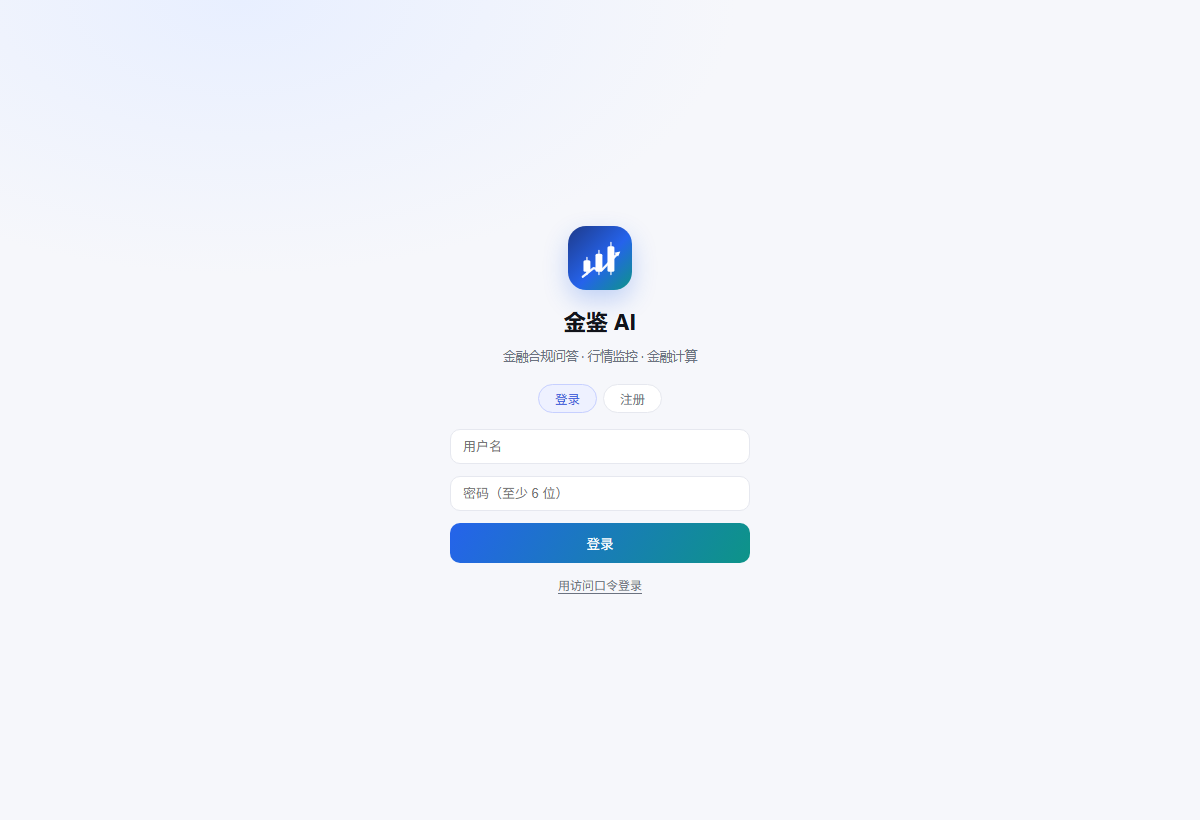
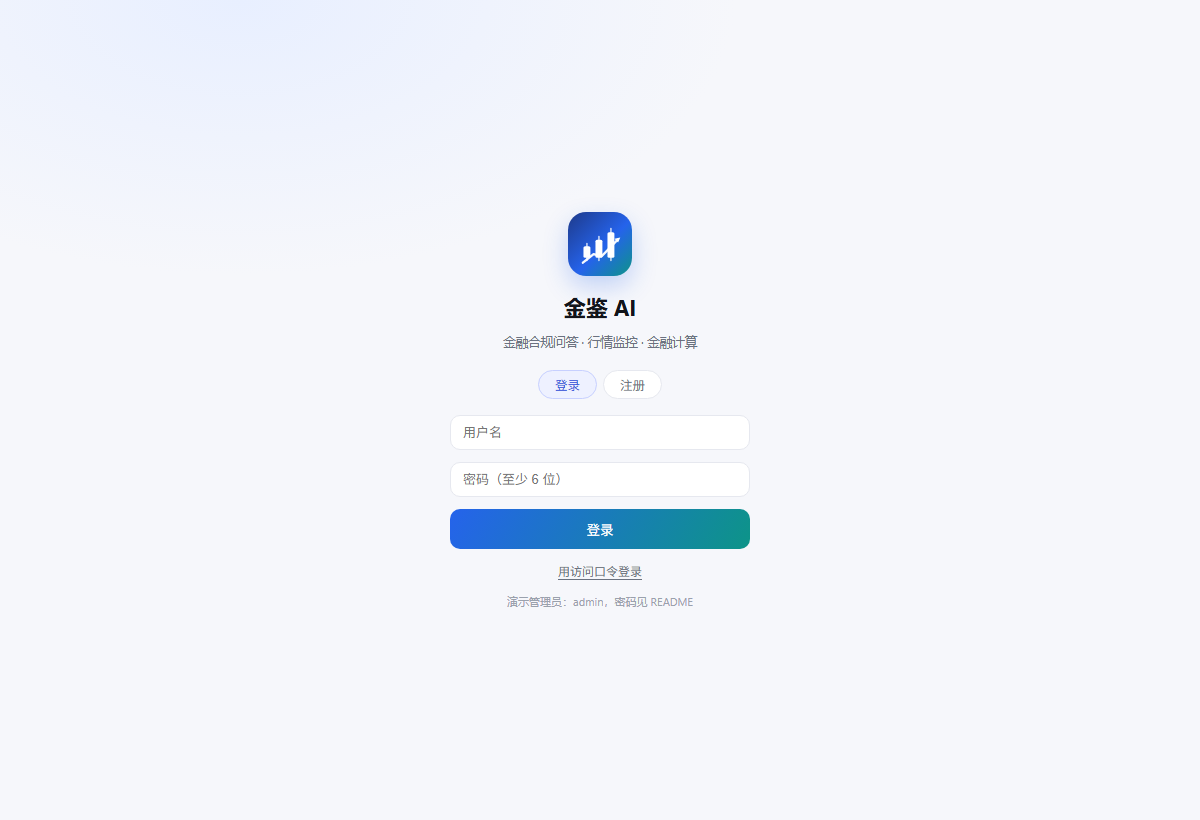
feat: 内置管理员账号（admin，密码取 ADMIN_PASSWORD 或访问口令）

Changed region(s): [[0.37, 0.5183, 0.6475, 0.7622], [0.4008, 0.2439, 0.5858, 0.5183]]

diff --git a/frontend/src/views/HomeView.jsx b/frontend/src/views/HomeView.jsx
@@ -96,7 +96,7 @@ export default function HomeView({ onNavigate, onAsk }) {
     monitor: live?.topSector
       ? `自选 ${live.watchCount} 只 · ${live.topSector.name} ${fmtPct(live.topSector.change_pct)}`
       : 'K 线 · 板块 · 异动解读',
-    agent: '6 类计算 · 32 个测试',
+    agent: '6 类计算 · 33 个测试',
   }
 
   return (
@@ -199,7 +199,7 @@ export default function HomeView({ onNavigate, onAsk }) {
           [String(live?.finance?.chunk_count ?? 351), '块法规'],
           [live ? String(live.watchCount) : '—', '只自选股'],
           [live ? String(live.alerts) : '—', '今日告警'],
-          ['32', '个测试'],
+          ['33', '个测试'],
         ].map(([num, label]) => (
           <div key={label} className="home-stat">
             <b>{num}</b>

diff --git a/frontend/src/views/LoginView.jsx b/frontend/src/views/LoginView.jsx
@@ -54,6 +54,7 @@ export default function LoginView({ onDone }) {
           {busy ? '请稍候……' : mode === 'login' ? '登录' : '注册并登录'}
         </button>
         <button className="login-link" onClick={tokenLogin}>用访问口令登录</button>
+        <div className="demo-hint">演示管理员：admin，密码见 README</div>
       </div>
     </div>
   )

diff --git a/frontend/src/styles.css b/frontend/src/styles.css
@@ -611,3 +611,5 @@ nav button.active {
   text-decoration: underline; text-underline-offset: 3px; cursor: pointer; }
 .login-error { color: #d93025; font-size: 12px; }
 .user-chip { font-size: 12px; color: #4b5563; margin-right: 6px; }
+
+.demo-hint { font-size: 11px; color: #9aa1ad; margin-top: 2px; }

diff --git a/build/auth.py b/build/auth.py
@@ -13,6 +13,8 @@ import store
 
 SECRET = os.environ.get("AUTH_SECRET") or os.environ.get("ACCESS_TOKEN") or "dev-secret-change-me"
 TOKEN_TTL = 7 * 86400
+ADMIN_USER = os.environ.get("ADMIN_USERNAME", "admin")
+ADMIN_PASS = os.environ.get("ADMIN_PASSWORD") or os.environ.get("ACCESS_TOKEN") or "admin123456"
 
 SCHEMA = """
 CREATE TABLE IF NOT EXISTS users (
@@ -27,6 +29,24 @@ CREATE TABLE IF NOT EXISTS users (
 def init():
     with store.connect() as conn:
         conn.executescript(SCHEMA)
+    ensure_admin()
+
+
+def ensure_admin():
+    """内置管理员：id=0，能直接看到历史数据（早期数据都是 user_id=0）。"""
+    with store.connect() as conn:
+        row = conn.execute("SELECT id FROM users WHERE username=?", (ADMIN_USER,)).fetchone()
+        if row:
+            # 显式配置了 ADMIN_PASSWORD 就以环境变量为准，方便重置
+            if os.environ.get("ADMIN_PASSWORD"):
+                conn.execute("UPDATE users SET password_hash=? WHERE id=?",
+                             (_hash(ADMIN_PASS), row[0]))
+                return {"id": row[0], "username": ADMIN_USER, "created": False, "updated": True}
+            return {"id": row[0], "username": ADMIN_USER, "created": False}
+        conn.execute(
+            "INSERT INTO users(id, username, password_hash, created_at) VALUES(0,?,?,?)",
+            (ADMIN_USER, _hash(ADMIN_PASS), time.time()))
+    return {"id": 0, "username": ADMIN_USER, "created": True}
 
 
 def _hash(password, salt=None):

diff --git a/build/tests/test_core.py b/build/tests/test_core.py
@@ -2,10 +2,14 @@
 """核心逻辑的单元测试 + API 冒烟测试（不调用外部模型）。"""
 import os
 import sys
+import tempfile
 from pathlib import Path
 
 sys.path.insert(0, str(Path(__file__).resolve().parents[1]))
 os.environ.setdefault("ACCESS_TOKEN", "")
+_TMP = tempfile.mkdtemp(prefix="dsh-test-")
+os.environ.setdefault("ASSISTANT_DB", str(Path(_TMP) / "test.db"))
+os.environ.setdefault("KB_DIR", str(Path(_TMP) / "kbs"))
 os.environ.setdefault("ENABLE_MONITOR", "0")
 
 import pytest
@@ -293,3 +297,11 @@ def test_send_text_skips_in_quiet(monkeypatch):
     result = notify.send_text("test")
     assert result["sent"] is False
     assert result["reason"] == "免打扰时段"
+
+
+def test_builtin_admin(tmp_path, monkeypatch):
+    monkeypatch.setattr(store, "DB", tmp_path / "admin.db")
+    monkeypatch.setattr(auth, "ADMIN_PASS", "adminpass123")
+    auth.init()
+    assert auth.login("admin", "adminpass123")["id"] == 0
+    assert auth.ensure_admin()["created"] is False

diff --git a/build/README.md b/build/README.md
@@ -192,6 +192,7 @@ ALERT_WEBHOOK_TYPE=auto   # auto / feishu / dingtalk / generic
 - 注册 / 登录：用户名 + 密码（PBKDF2-SHA256，12 万轮），签发 HMAC token（7 天）
 - 隔离范围：会话、消息、用量统计、自选股、告警、今日综述
 - 共享范围：知识库（金融合规/技术文档是公共资料）
+- 内置管理员：用户名 `admin`，密码取 `ADMIN_PASSWORD`，不填则用 `ACCESS_TOKEN`（当前 Demo 为 `PCAI1907`）
 - 兼容原有访问口令：登录页点「用访问口令登录」，或请求头带 `X-Access-Token`
 - 管理接口（知识库增删、推送测试）目前所有登录用户可用，生产应加角色
 
